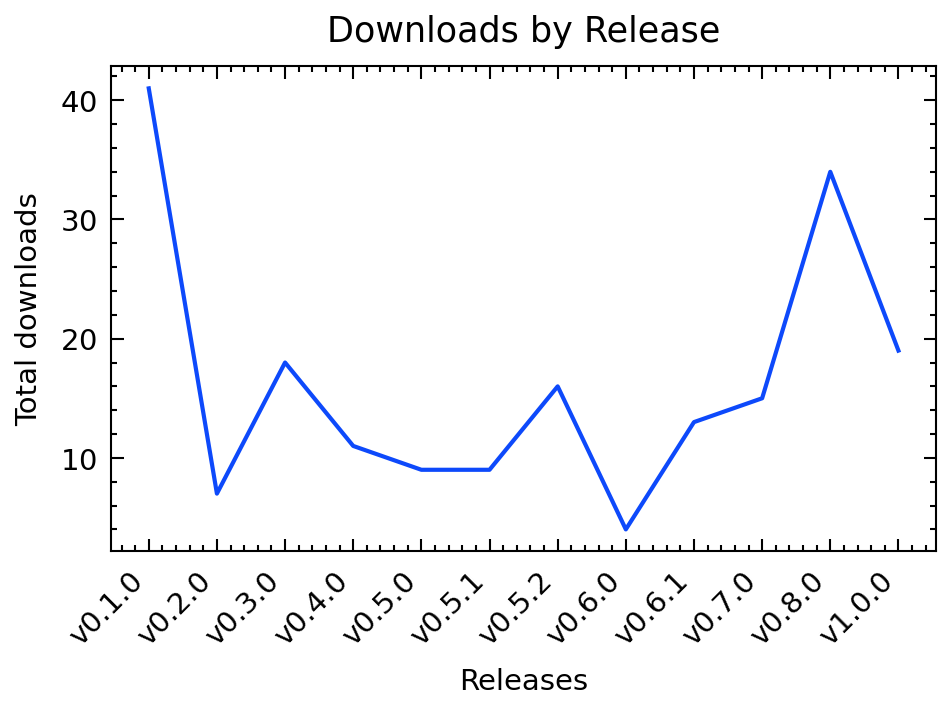
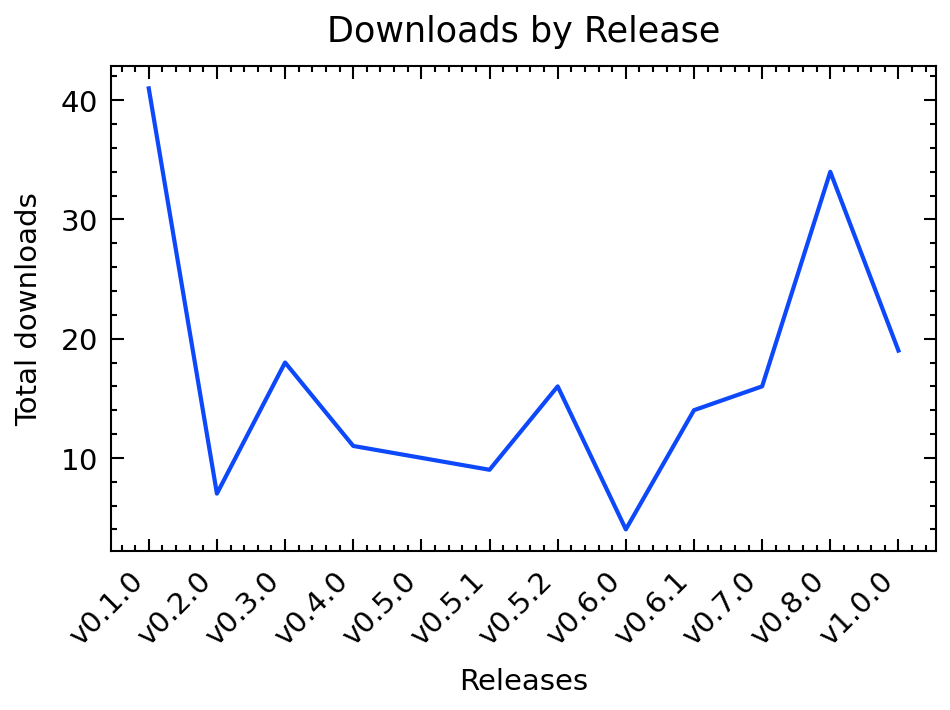
Updated Metrics data

diff --git a/README.md b/README.md
@@ -4,7 +4,7 @@
 SciWIn-Client helps users creating **Computational Workflows** in CWL. Detailed Information about SciWIn-Client can be found in the [GitHub Repository](https://github.com/fairagro/m4.4_sciwin_client). The Metrics shown below have been calculated using the GitHub API. Presentation is done via a CWL Workflow and the scripts in this repository.
 
 ## Downloads by Version
-SciWIn-Client currently has about 196 overall downloads across all versions and operating systems. The lastest version v1.0.0 currently has 19 downloads.
+SciWIn-Client currently has about 199 overall downloads across all versions and operating systems. The lastest version v1.0.0 currently has 19 downloads.
 
 
 ![downloads by version](release.png)
@@ -14,12 +14,12 @@ SciWIn-Client currently has about 196 overall downloads across all versions and 
 |---------|-----------|
 | v1.0.0 | 19|
 | v0.8.0 | 34|
-| v0.7.0 | 15|
-| v0.6.1 | 13|
+| v0.7.0 | 16|
+| v0.6.1 | 14|
 | v0.6.0 | 4|
 | v0.5.2 | 16|
 | v0.5.1 | 9|
-| v0.5.0 | 9|
+| v0.5.0 | 10|
 | v0.4.0 | 11|
 | v0.3.0 | 18|
 | v0.2.0 | 7|
@@ -27,7 +27,7 @@ SciWIn-Client currently has about 196 overall downloads across all versions and 
 
 
 ## Downloads by Operating System
-SciWIn-Client is used on all major operating systems. There are 108 downloads of the Linux executable, 38 downloads of the Windows executable and 50 downloads of the Mac OS executable.
+SciWIn-Client is used on all major operating systems. There are 108 downloads of the Linux executable, 39 downloads of the Windows executable and 52 downloads of the Mac OS executable.
 
 
 ![downloads by platform](platform.png)
@@ -35,10 +35,10 @@ SciWIn-Client is used on all major operating systems. There are 108 downloads of
 
 | Platform | Downloads |
 |---------|-----------|
-| MacOS (ARM) | 29|
+| MacOS (ARM) | 31|
 | Linux (ARM) | 26|
 | MacOS (x64) | 21|
-| Windows (x64) | 38|
+| Windows (x64) | 39|
 | Linux (x64) | 82|
 
 
